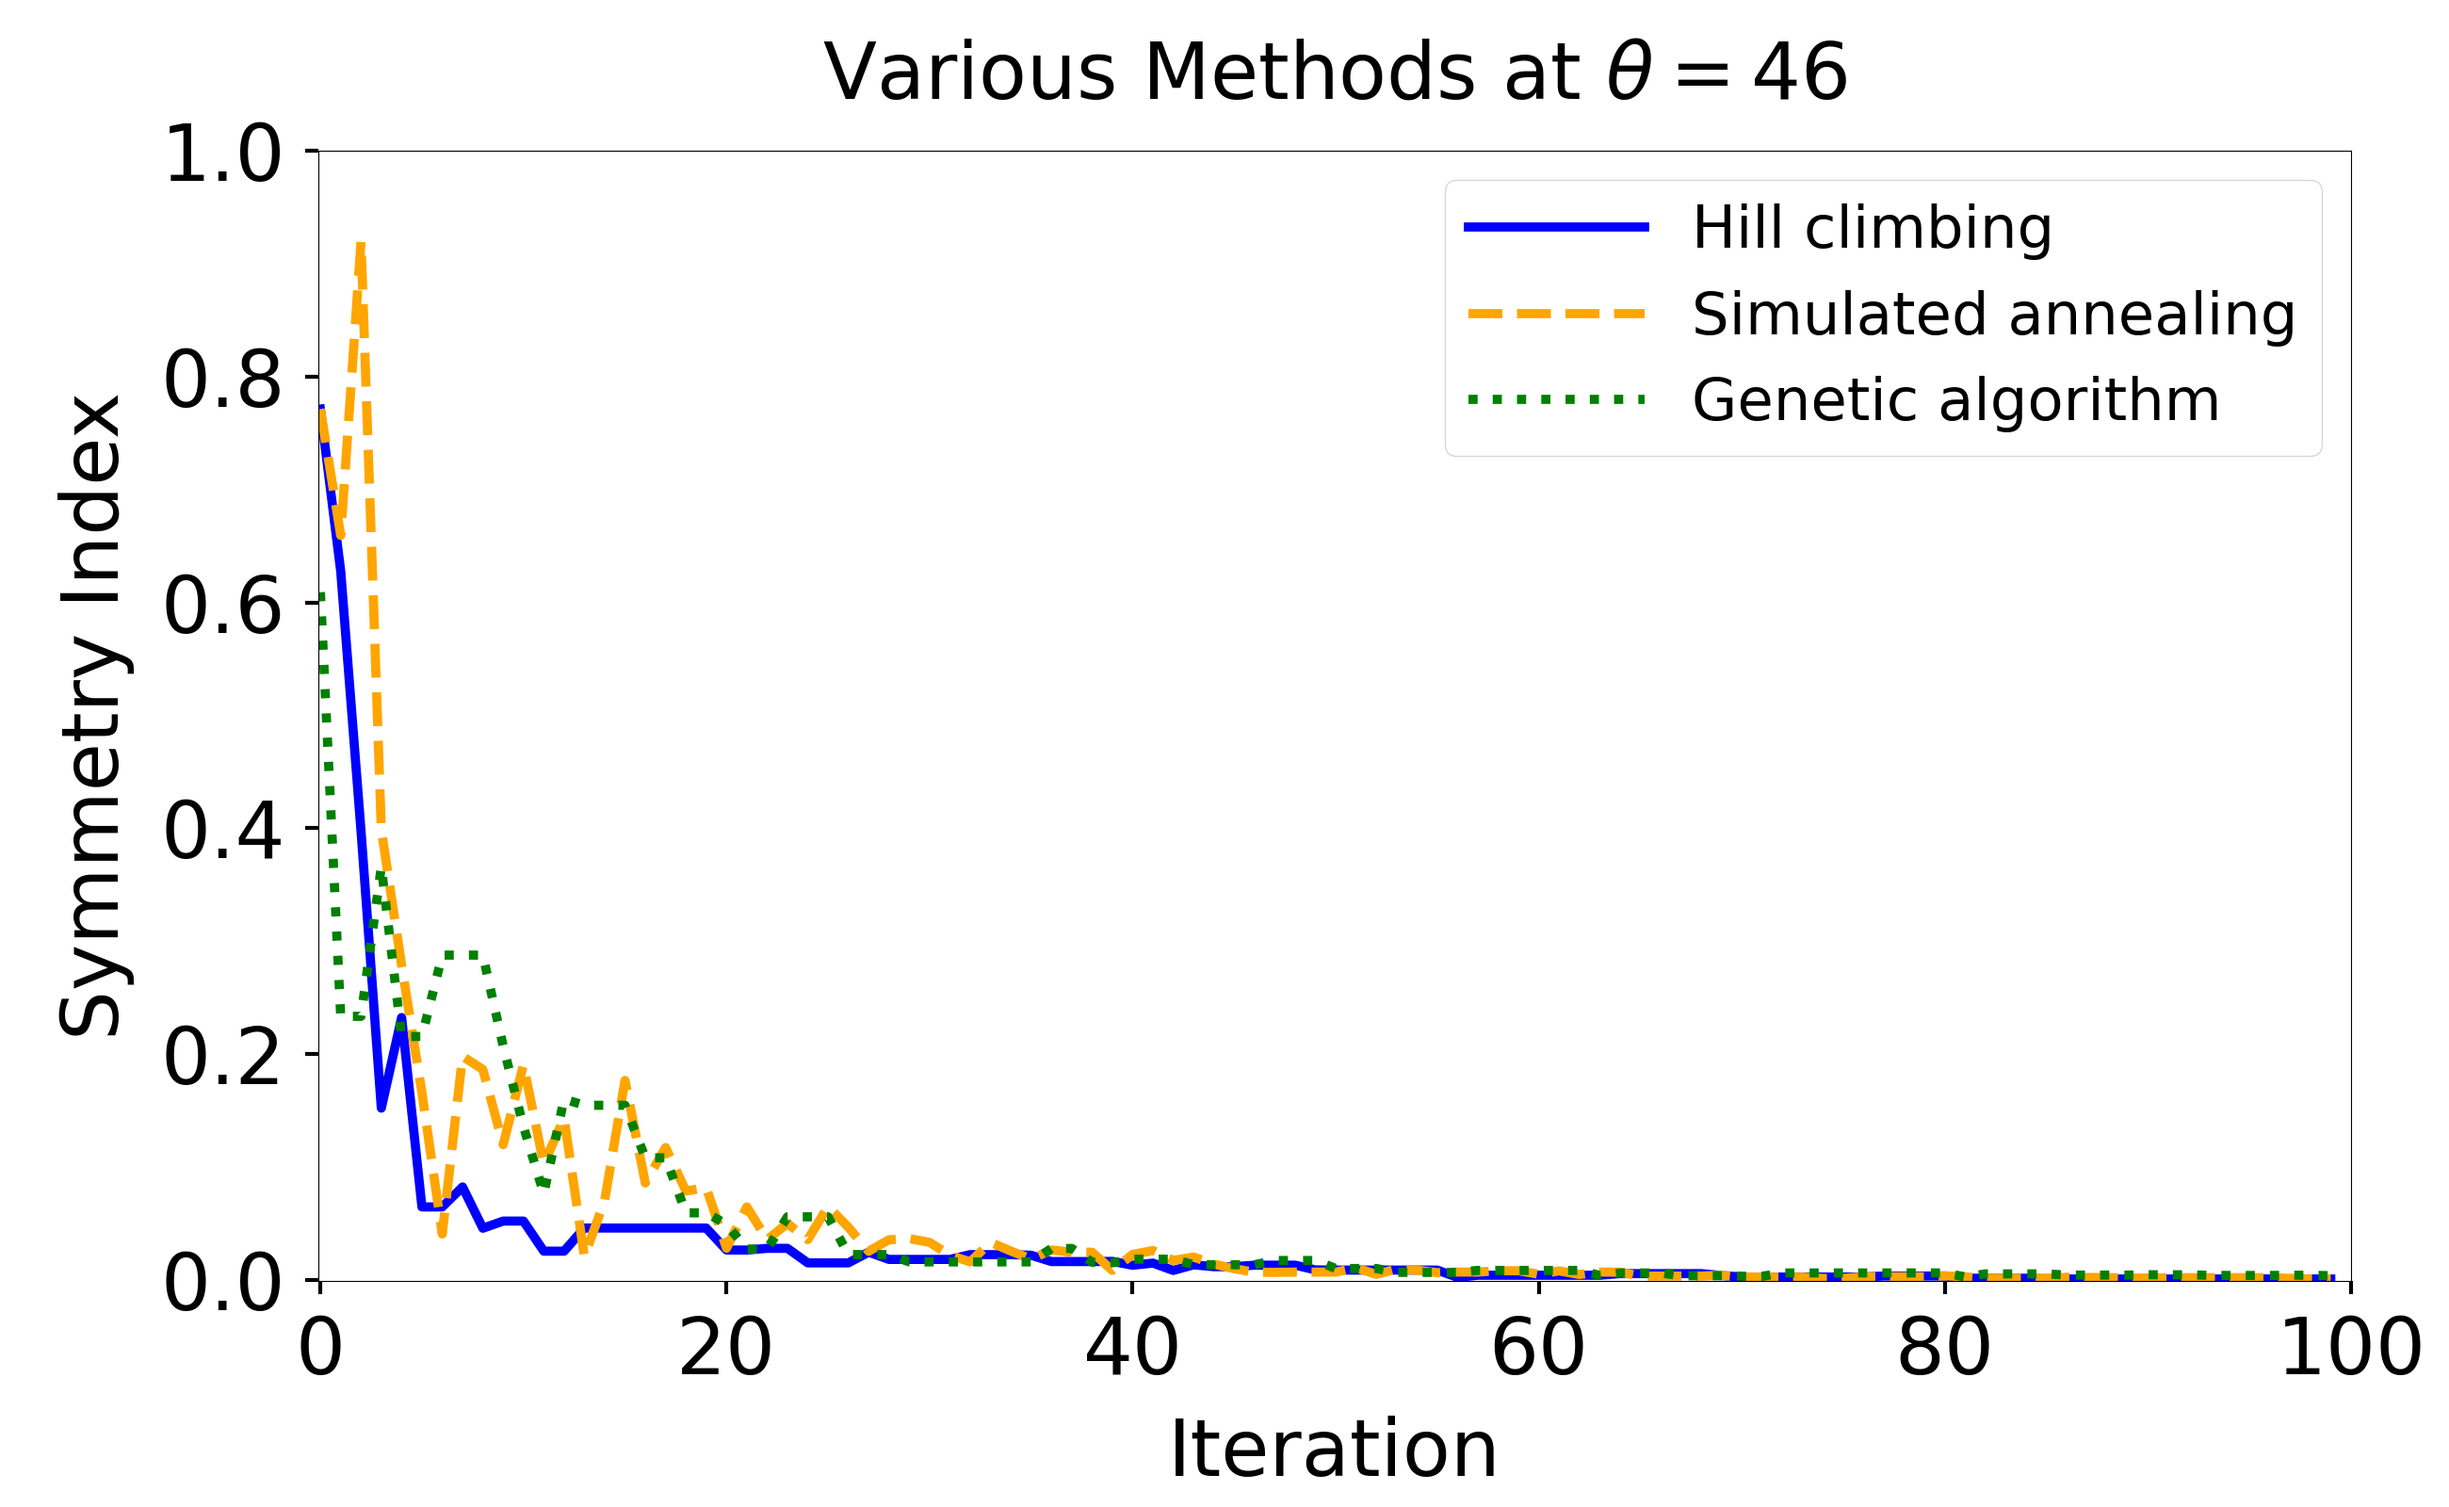
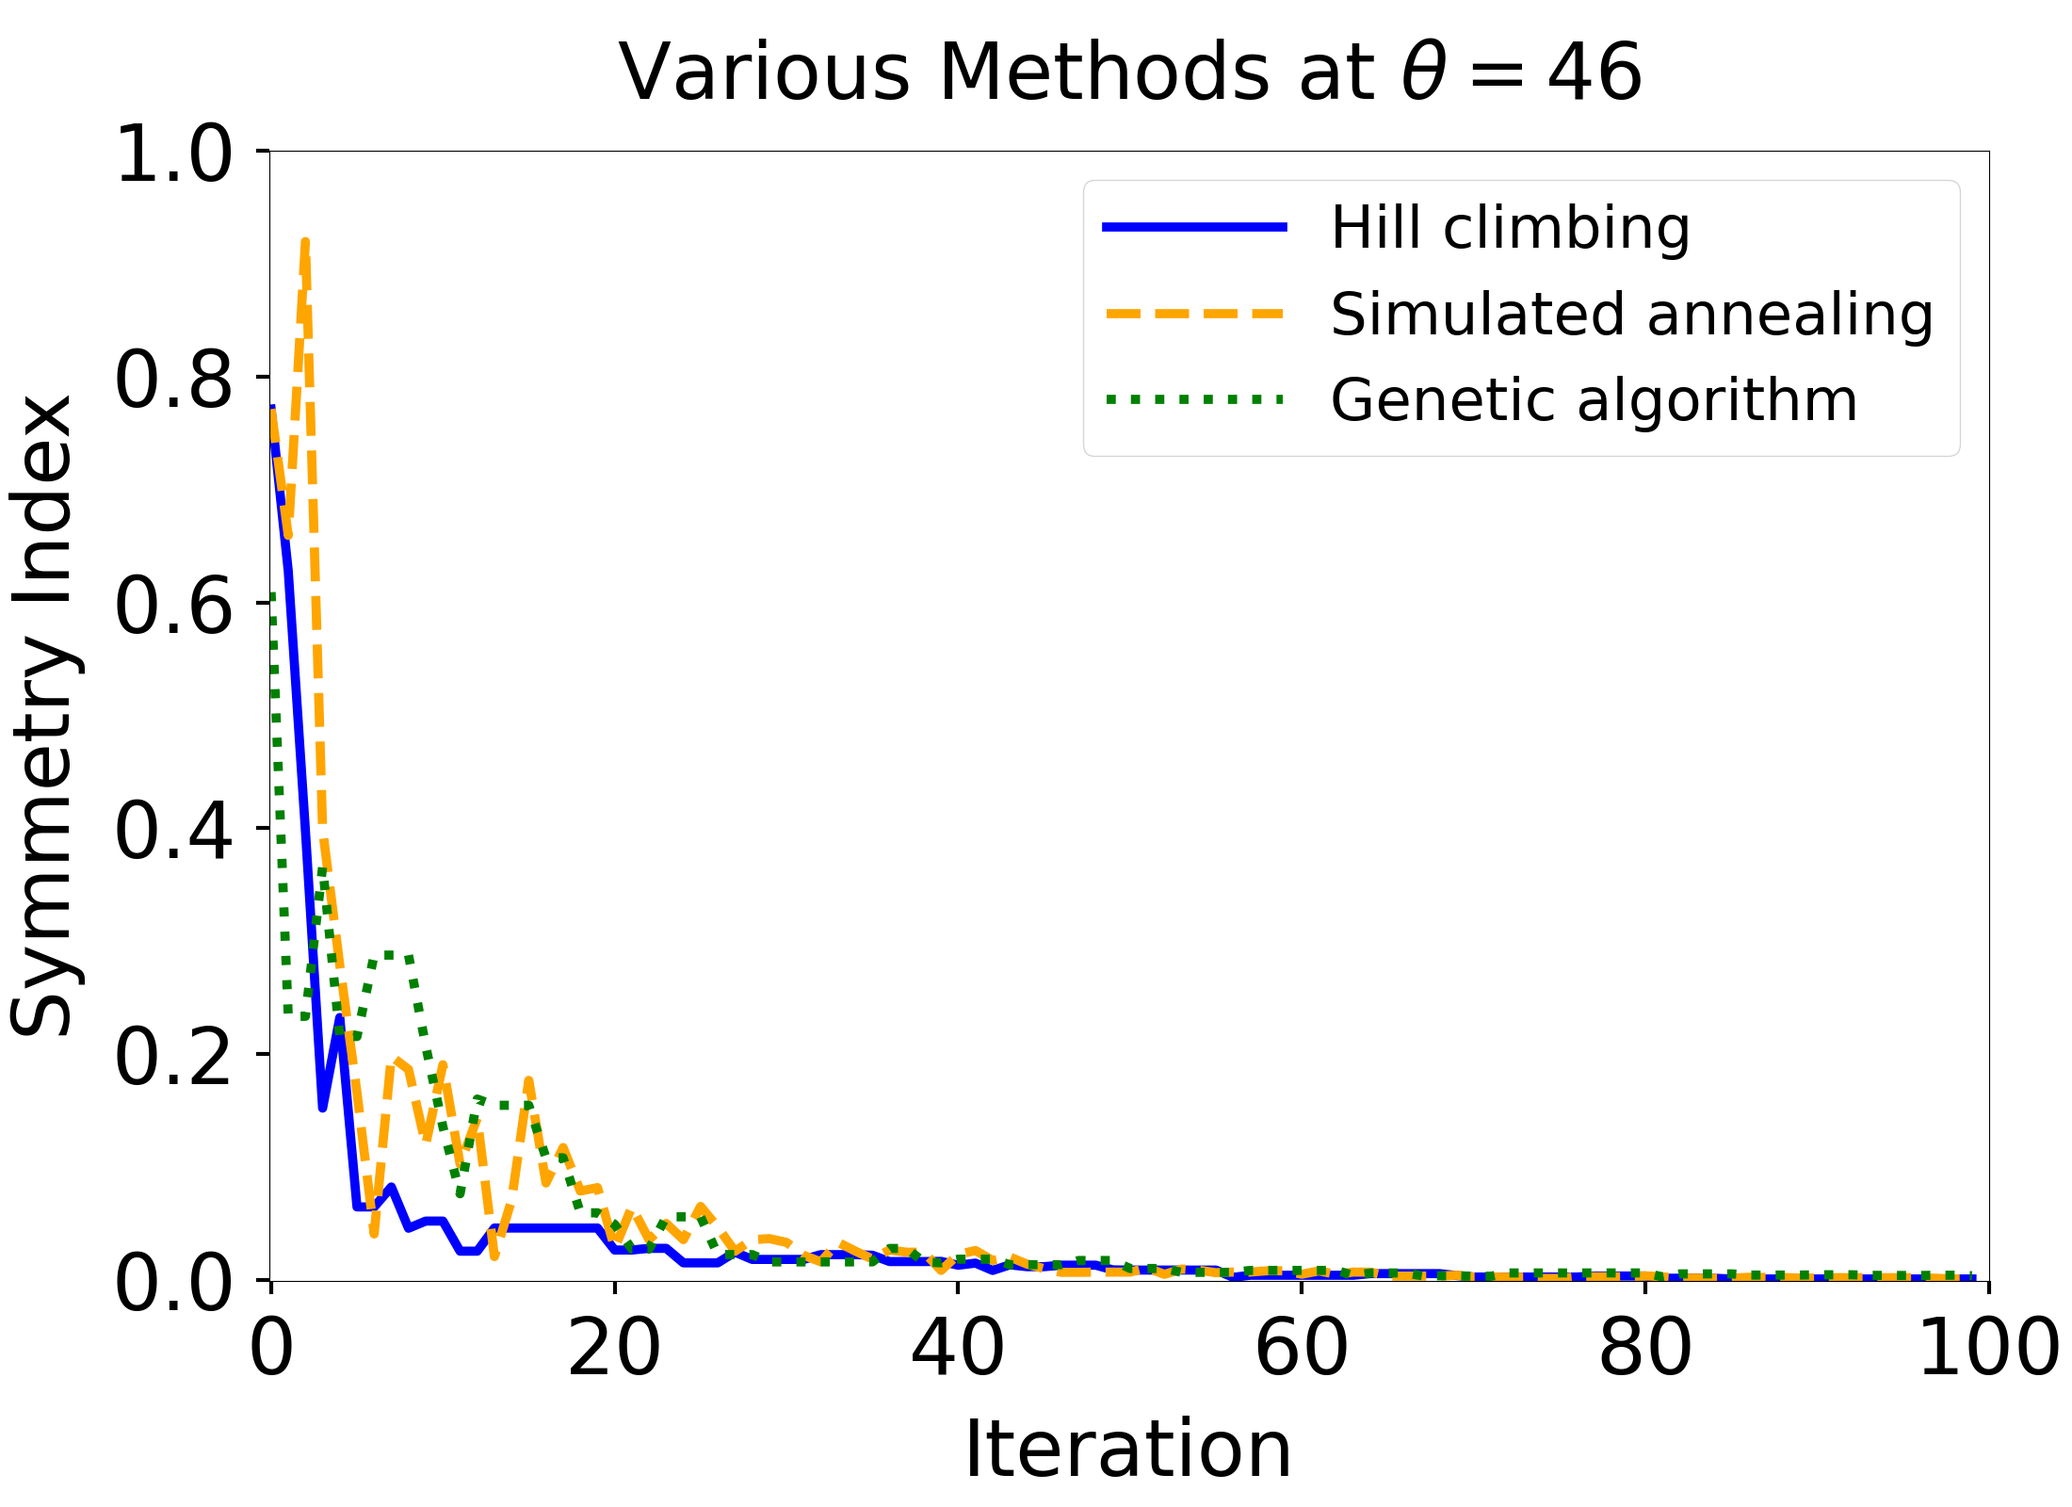
update plots

diff --git a/plot.py b/plot.py
@@ -470,7 +470,7 @@ class Plot:
                 if method == 'Hill climbing' and myinput.unitary_theta == theta:
                     table[output.start_seed] = output.symmetries
         print(table)
-        fig, ax = plt.subplots(figsize=(26, 16))
+        fig, ax = plt.subplots(figsize=(22, 16))
         fig.subplots_adjust(left=0.13, right=0.96, top=0.9, bottom=0.15)
         seeds = [0, 1, 2, 3, 4]
         for seed in seeds:
@@ -496,7 +496,7 @@ class Plot:
                 if myinput.unitary_theta == theta and output.start_seed == seed:
                     table[method] = output.symmetries
         print(table)
-        fig, ax = plt.subplots(figsize=(26, 16))
+        fig, ax = plt.subplots(figsize=(22, 16))
         fig.subplots_adjust(left=0.13, right=0.96, top=0.9, bottom=0.15)
         methods = ['Hill climbing', 'Simulated annealing', 'Genetic algorithm']
         for method in methods:
@@ -521,15 +521,15 @@ class Plot:
                 if method == 'Hill climbing' and output.start_seed == 0:
                     table[myinput.unitary_theta] = output.symmetries
         print(table)
-        fig, ax = plt.subplots(figsize=(26, 16))
-        fig.subplots_adjust(left=0.13, right=0.96, top=0.9, bottom=0.15)
+        fig, ax = plt.subplots(figsize=(22, 16))
+        fig.subplots_adjust(left=0.11, right=0.96, top=0.9, bottom=0.15)
         thetas = [6, 26, 46, 66, 86]
         for theta in thetas:
             ax.plot(table[theta][:100], label=f'$\\theta$={theta}')
         ax.legend(fontsize=45, handlelength=3)
         ax.set_title('Hill Climbing with varying $\\theta$', pad=40, fontsize=60)
         ax.set_xlabel('Iteration', labelpad=20)
-        ax.set_ylabel('Symmetry Index', labelpad=20)
+        # ax.set_ylabel('Symmetry Index', labelpad=20)
         ax.set_ylim([-0.001, 1])
         ax.set_xlim([-0.1, 100])
         ax.tick_params(axis='x', direction='out', length=10, width=3, pad=15)
@@ -901,10 +901,10 @@ def symmetry():
     Plot.symmetry_varymethod(data, filename.format('method'))
     Plot.symmetry_varytheta(data, filename.format('theta'))
 
-    filename = 'result/5.22.2023/poe_symmetry.png'
-    Plot.symmetry_poe_varymethod(data, filename)
-    filename = 'result/5.22.2023/poe_symmetry_zoomin.png'
-    Plot.symmetry_poe_varymethod_zoomin(data, filename)
+    # filename = 'result/5.22.2023/poe_symmetry.png'
+    # Plot.symmetry_poe_varymethod(data, filename)
+    # filename = 'result/5.22.2023/poe_symmetry_zoomin.png'
+    # Plot.symmetry_poe_varymethod_zoomin(data, filename)
 
 
 def unambiguous_vary_theta():
@@ -920,8 +920,8 @@ if __name__ == '__main__':
     # vary_theta()
     # methods_similar()
     # lemma2()
-    conjecture()
-    # symmetry()
+    # conjecture()
+    symmetry()
 
 
     # not used #
